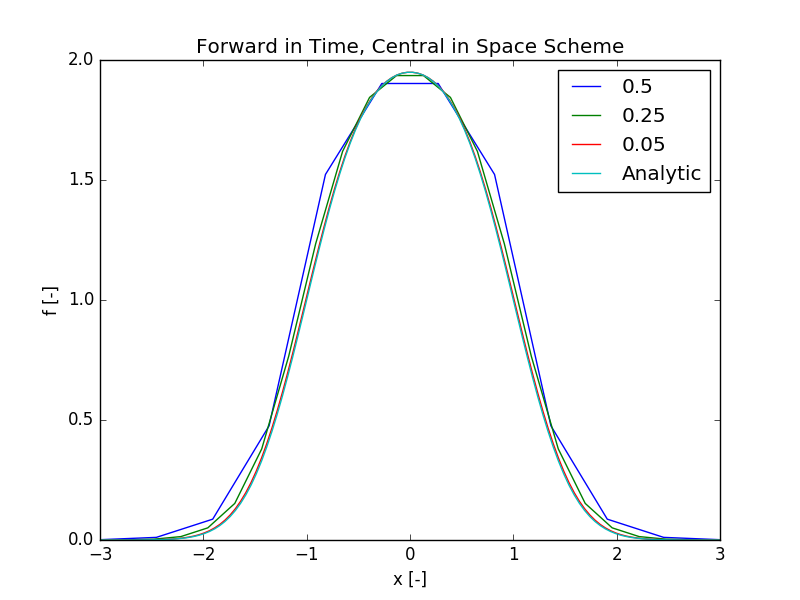
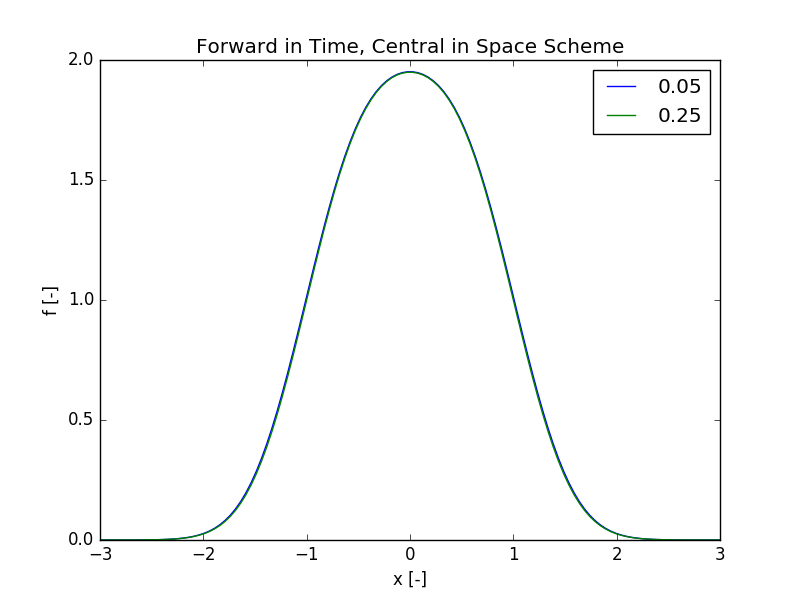
finished most of problem 1

diff --git a/HW06/ftcs.py b/HW06/ftcs.py
@@ -4,81 +4,18 @@ import scipy.sparse
 import matplotlib.pyplot as plt
 
 from solvers import solve_matrix, gaussian_elimination, thomas_solver
+from constants import *
 
-# some constants
-k = 1e-3
-dx = 0.05
-dt = 1.5
-alpha = k * dt / dx ** 2
-t_end = 9
-domain = (-3, 3)
-n = int((domain[1] - domain[0]) / dx)
-x = np.linspace(domain[0], domain[1], n) 
-times = np.linspace(0, t_end, int(t_end / dt))
-
-def make_A_FTCS():
-    """Produce sparse diagonal matrix for algorithm testing.
-    """
-    e = np.ones((n, 1))
-    data = np.hstack((alpha * e, (1 - 2*alpha)*e, alpha * e)).T
-    diags = np.array((-1, 0, 1))
-    sp_array = scipy.sparse.spdiags(data, diags, n, n).toarray()
-    sp_array[0][0] = 1; sp_array[0][1:] = 0
-    sp_array[-1][-1] = 1; sp_array[-1][:-1] = 0
-
-    return sp_array
-
-def make_B_FTCS(f):
+def run_ftcs_calc():
     
-    b = f
-    b[0] = 0
-    b[n-1] = 0
-     
-    return b
-
-def get_analytic_solution(x, t):
-    fa = np.zeros(len(x))
-    for i, x_val in enumerate(x):
-        fa[i] = ( 1 ) * ( math.erf( (1-x_val) / (2 * math.sqrt(k * t))) - \
-                math.erf(-(1+x_val) / (2 * math.sqrt(k * t) )) )
-
-    return fa
-
-
-def plot(data, savefig):
-
-    plt.plot(data[0], data[1], label='Analytic')
-    plt.plot(data[0], data[2], label='CN')
-    plt.legend()
-    plt.title("CN vs. FTCS dx = 0.05 dt = 2.0")
-    plt.xlabel('x [-]')
-    plt.ylabel('f [-]')
-    plt.savefig("{0}.png".format(savefig))
-    plt.show()
-
-def run_ftcs():
-    A = make_A_FTCS()
+    # Set Up FTCS matrix approx
     f = np.piecewise(x, [abs(x) < 1], [2])
-    B = make_B_FTCS(f)
-    f = solve_matrix(A, B)[0]
-
+    new_f = np.zeros(len(f))
     for i in range(0, len(times)):
-        B = make_B_CN(f)
-        f = solve_matrix(A, B)[0]
-
+        for j, val in enumerate(f[1:-1]):
+            new_f[j] = alpha * f[j+1] + (1-2*alpha)*f[j] + alpha*f[j-1]
+            new_f[0] = 0
+            new_f[-1] = 0
+        f = new_f
+        
     return f
-
-if __name__ == '__main__':
-    
-    A = make_A_FTCS()
-    f = np.piecewise(x, [abs(x) < 1], [2])
-    B = make_B_FTCS(f)
-    f = solve_matrix(A, B)[0]
-
-    for i in range(0, len(times)):
-        B = make_B_FTCS(f)
-        f = solve_matrix(A, B)[0]
-
-    fa = get_analytic_solution(x, t_end)
-    data = [x, fa, f]
-    plot(data, 'problem1.png')

diff --git a/HW06/problem1.py b/HW06/problem1.py
@@ -4,18 +4,8 @@ import scipy.sparse
 import matplotlib.pyplot as plt
 
 from solvers import solve_matrix, gaussian_elimination, thomas_solver
-from ftcs import make_A_FTCS, make_B_FTCS
-
-# some constants
-k = 1e-3
-dx = 0.05
-dt = 1.5
-alpha = k * dt / dx ** 2
-t_end = 9
-domain = (-3, 3)
-n = int((domain[1] - domain[0]) / dx)
-x = np.linspace(domain[0], domain[1], n) 
-times = np.linspace(0, t_end, int(t_end / dt))
+import ftcs
+from constants import *
 
 def make_A_CN():
     """Produce sparse diagonal matrix for algorithm testing.
@@ -51,6 +41,7 @@ def plot(fig, data, savefig):
     plt.plot(data[0], data[2], label='CN')
     plt.plot(data[0], data[3], label='FTCS')
     plt.legend()
+    plt.ylim(0,3)
     plt.title("CN vs. FTCS dx = 0.05 dt = 2.0")
     plt.xlabel('x [-]')
     plt.ylabel('f [-]')
@@ -65,19 +56,13 @@ if __name__ == '__main__':
     f = np.piecewise(x, [abs(x) < 1], [2])
     B = make_B_CN(f)
     f = solve_matrix(A, B)[0]
-    # Set up FTCS stuff
-    A_FTCS = make_A_FTCS()
-    f_FTCS = np.piecewise(x, [abs(x) < 1], [2])
-    B_FTCS = make_B_FTCS(f_FTCS)
-    f_FTCS = solve_matrix(A_FTCS, B_FTCS)[0]
+
 
     for i in range(0, len(times)):
         # Sovle CN
         B = make_B_CN(f)
         f = solve_matrix(A, B)[0]
-        # Solve FTCS
-        f_FTCS = solve_matrix(A_FTCS, B_FTCS)[0]
-        B_FTCS = make_B_FTCS(f_FTCS)
 
+    f_FTCS = ftcs.run_ftcs_calc()
     data = [x, fa, f, f_FTCS]
     plot(2, data, 'problem1')

diff --git a/HW06/constants.py b/HW06/constants.py
@@ -1,0 +1,12 @@
+import numpy as np
+
+# some constants
+k = 1e-3
+dx = 0.05
+dt = 1.5
+alpha = k * dt / dx ** 2
+t_end = 9
+domain = (-3, 3)
+n = int((domain[1] - domain[0]) / dx)
+x = np.linspace(domain[0], domain[1], n) 
+times = np.linspace(0, t_end, int(t_end / dt))
